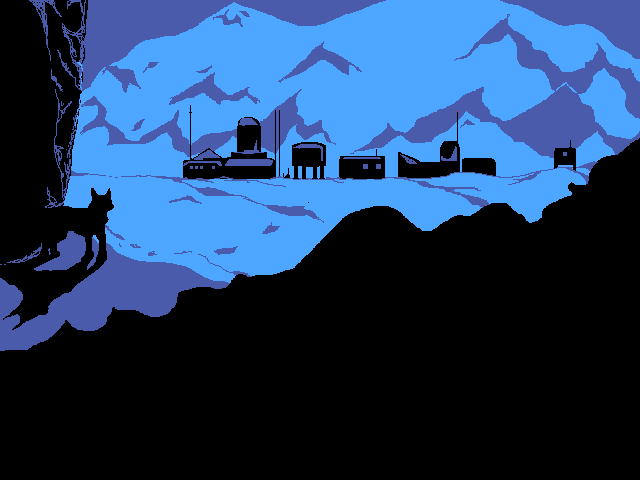
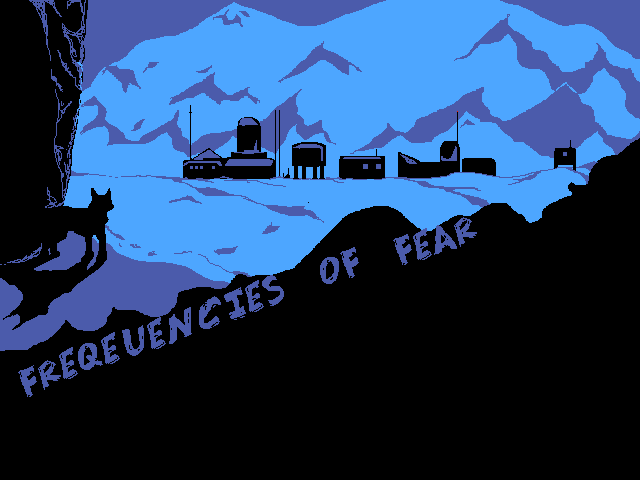
Dodano tytul

Changed region(s): [[0.0312, 0.5625, 0.4688, 0.8438], [0.5938, 0.4375, 0.75, 0.5625], [0.5, 0.5, 0.5625, 0.5938]]

diff --git a/Game/GameEngine.py b/Game/GameEngine.py
@@ -31,7 +31,7 @@ class GameEngine:
                     pygame.quit()
                     return show_menu
                 if event.type == pygame.KEYDOWN:
-                    if event.key == pygame.K_SPACE:
+                    if event.key == pygame.K_SPACE and not self.entered_new_level:
                         self.cleared_level = True
                     if event.key == pygame.K_ESCAPE:
                         running = False
@@ -39,7 +39,7 @@ class GameEngine:
                         self.player.appear_at(self.map.player_start_pos[0], self.map.player_start_pos[1])
                         self.cleared_level = False
                         self.entered_new_level = True
-                        continue
+                        return show_menu
                 # if event.type == pygame.MOUSEBUTTONDOWN:
                 #     dest[0],dest[1] = pygame.mouse.get_pos()
 

diff --git a/Game/Game.py b/Game/Game.py
@@ -7,7 +7,7 @@ from Menu import Menu
 class Game:
     def __init__(self,size_id):
         pygame.init()
-        pygame.display.set_caption('game')
+        pygame.display.set_caption('FREQUENCIES OF FEAR')
         gameIcon = pygame.image.load('Pixel art/logo.png')
         pygame.display.set_icon(pygame.transform.scale(gameIcon,(32,32)))
 

diff --git a/Game/Menu.py b/Game/Menu.py
@@ -59,7 +59,7 @@ class Menu:
             self.render(surf)
             pygame.display.update()
             clock.tick(60)
-        print(show_play)
+
         return show_play, show_score
 
 
